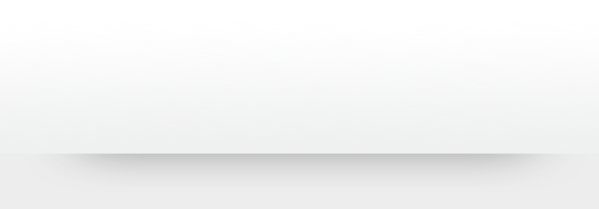
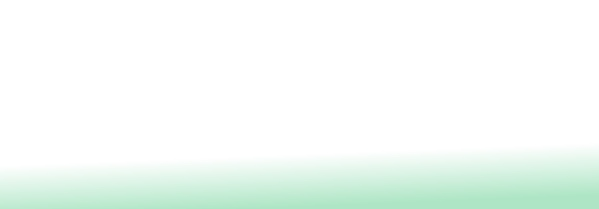
fixed up look to be more green

Changed region(s): [[0.0, 0.8038, 1.0, 1.0], [0.0902, 0.7177, 0.9015, 0.8325]]

diff --git a/app/views/Application/index.html b/app/views/Application/index.html
@@ -1,11 +1,15 @@
-#{extends 'main.html' /}
-#{set title:'Home' /}
-
-<img class="centered-img" src="public/images/evernote-top.png">
-<a href="/application/evernoteindex">
-    <img class="centered-img" src="/public/images/log-in-linkedin-large.png"/></a>
-<ol class="intro-text">
-    <li> Login to LinkedIn</li>
-    <li> Login to EverNote</li>
-    <li> Drag and Drop Shares to EverNote</li>
-</ol>
+<!DOCTYPE html>
+<html lang="en">
+<head>
+<meta charset=utf-8 />
+<title>In2EverNote</title>
+<link rel="stylesheet" href="/public/stylesheets/main.css" type="text/css" />
+</head>
+<body id="intro">
+    <img class="login-img" src="/public/images/in2evernote.png">
+    <br/>
+    <a href="/application/evernoteindex">
+        <img class="login-img" src="/public/images/log-in-linkedin-large.png"/>
+    </a>
+</body>
+</html>

diff --git a/app/views/Application/evernote.html b/app/views/Application/evernote.html
@@ -8,15 +8,16 @@
 <script src="/public/javascripts/jquery-1.4.2.min.js"></script>
 <script src="/public/javascripts/h5utils.js"></script>
 </head>
-<body>
+<body id="intro">
 <section id="wrapper">
     <header>
-      <h1>Drag and Drop <img height="40" src="/public/images/linkedin-logo.jpeg"> Shares to EverNote</h1>
+      <h1><img height="40" src="/public/images/LinkedIn_Logo60px.png">
+          <span class="two">2</span>
+          <img height="45" src="/public/images/evernote_logo2.png" style="vertical-align: bottom">
+      </h1>
+      <h2>Drag and Drop LinkedIn Shares to EverNote</h2>
     </header>
-
     <article>
-      <p>Drag the shares you want to save over to the EverNote Elephant</p>
-      <br/>
       <div id="bin"></div>
       <div id="shares">
       </div>

diff --git a/public/stylesheets/main.css b/public/stylesheets/main.css
@@ -132,6 +132,16 @@ h1 {
   background: none;
 }
 
+h2 {
+  text-align: center;
+  height: auto;
+  margin: 0 auto;
+  padding-top: 0px;
+  margin-bottom: 0px;
+  background: none;
+}
+
+
 #shares {
   margin-top: 0;
   vertical-align: top;
@@ -143,4 +153,28 @@ h1 {
 
 .hidden {
     display: none;
+}
+
+.two {
+    font-size: 60px;
+    font-weight: bold;
+}
+
+#intro {
+    background: url('/public/images/greenbg.png');
+    -moz-background-size: 100% 100%;
+    Firefox 3.6 background-size: 100% 100%;
+    background-repeat:repeat;
+    background-position:center;
+}
+
+.login-img {
+    display: block;
+    text-align: center;
+    height: auto;
+    margin: 0 auto;
+    padding-top: 0px;
+    margin-bottom: 0px;
+    background: none;
+    border: none;
 }

diff --git a/app/views/Application/evernoteindex.html b/app/views/Application/evernoteindex.html
@@ -1,6 +1,11 @@
-#{extends 'main.html' /}
-#{set title:'Home' /}
-
+<!DOCTYPE html>
+<html lang="en">
+<head>
+<meta charset=utf-8 />
+<title>In2EverNote</title>
+<link rel="stylesheet" href="/public/stylesheets/main.css" type="text/css" />
+</head>
+<body id="intro">
 <img class="left-img" src="/public/images/evernote_notes.png">
 <p class="intro-text">
     <img height="40" width="40" src="${myProfile.picture}"/> ${myProfile.firstName} ${myProfile.lastName}<br/>
@@ -16,3 +21,6 @@ Need a <a href="http://sandbox.evernote.com/" target="_blank">SANDBOX evernote a
     <input type="submit" value="Login to EverNote"/>
 </form>
 </p>
+</body>
+</html>
+

diff --git a/public/javascripts/shares.js b/public/javascripts/shares.js
@@ -68,10 +68,11 @@ function mainParse(data) {
     $('#shares').html(shareList);
     console.log("There are " + numShares + " shares");
 
-    var eat = ['yum!', 'gulp', 'burp!', 'nom'];
     var yum = document.createElement('p');
     var msie = /*@cc_on!@*/0;
     yum.style.opacity = 1;
+    yum.style.color = "#069";
+
 
     var links = document.querySelectorAll('li > span'), el = null;
     console.log("there are " + links.length + " links");
@@ -136,7 +137,8 @@ function mainParse(data) {
         }, 100);
 
         y.style.opacity = 0;
-      }, 1000);
+
+      }, 3000);
 
       return false;
     });

diff --git a/public/stylesheets/html5demos.css b/public/stylesheets/html5demos.css
@@ -13,12 +13,13 @@ section, header, footer {
 #wrapper {
   width: 720px;
   margin: 0 auto;
-  background: #fff url(/public/images/shade.jpg) repeat-x center bottom;
+  background: #fff ;
   -moz-border-radius: 10px;
   -webkit-border-radius: 10px;
   border-radius: 10px;
   border-top: 1px solid #fff;
   padding-bottom: 76px;
+  margin-bottom: 40px;
 }
 
 h1 {
